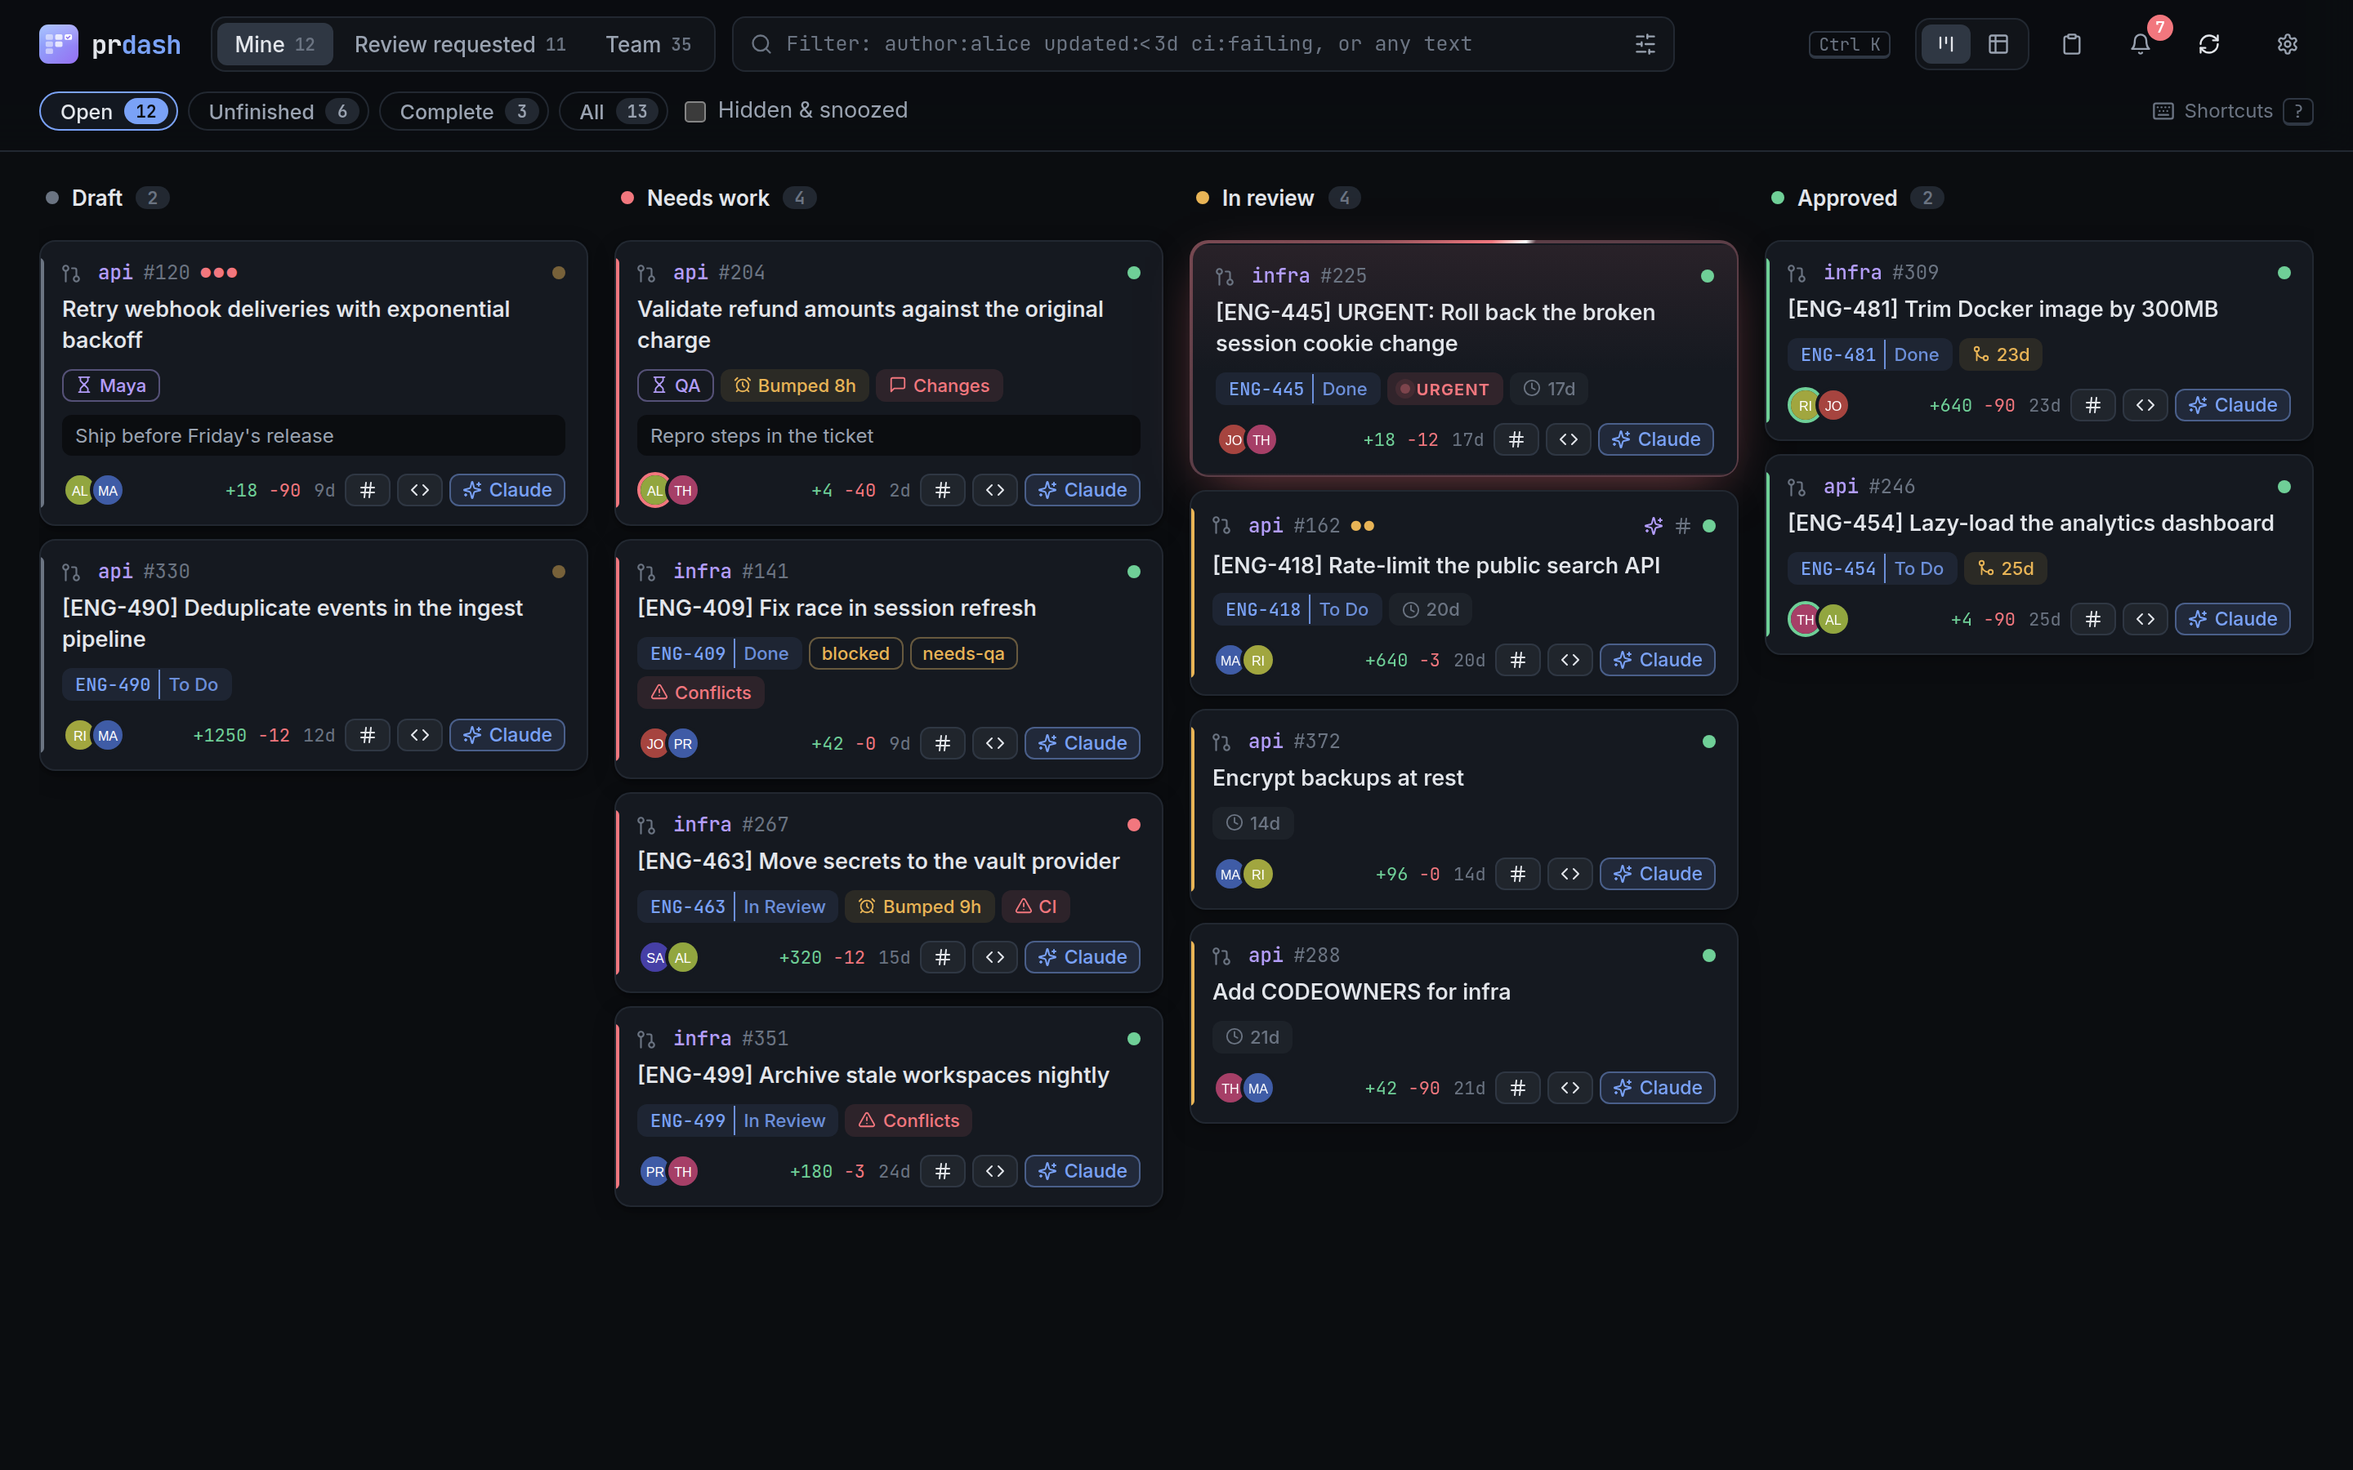
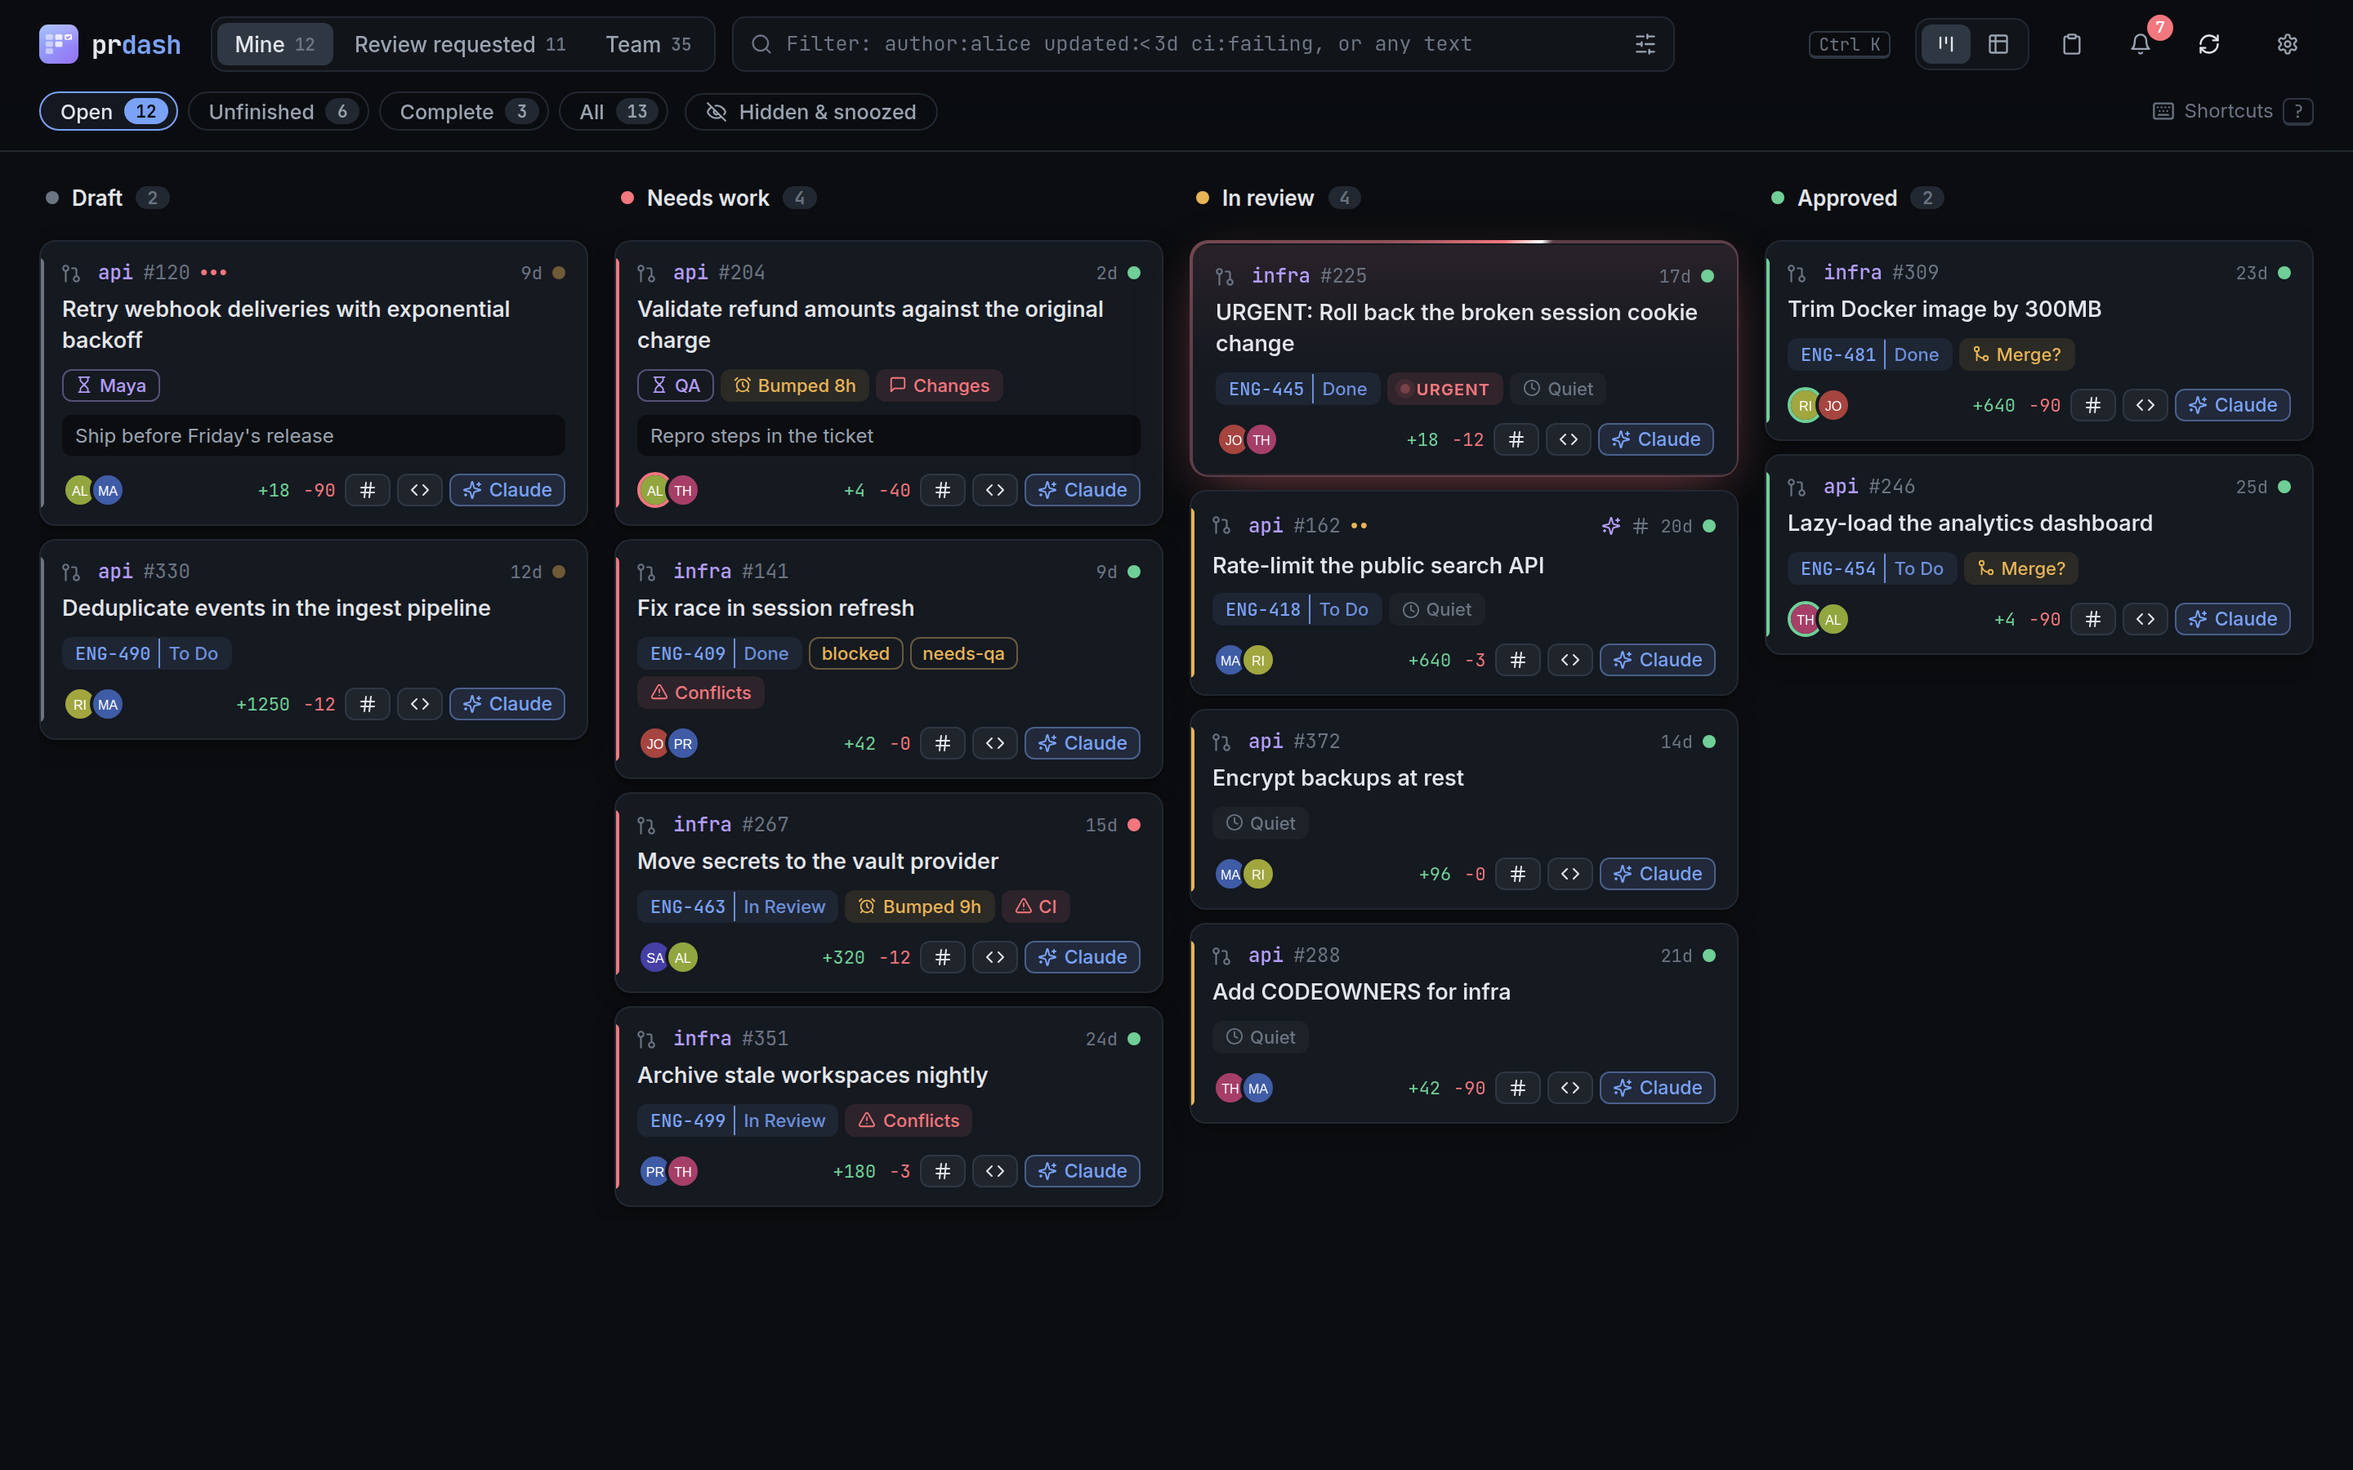
Polish from a hands-on review in Chrome
- Card titles drop the ticket prefix their Jira chip already shows.
- Age sits in each card's top row and stays visible; only the diff size
  swaps for actions on hover. Nudge chips say Quiet / Merge? instead of
  repeating the age.
- The corner icon becomes a checkbox on hover, so selection is discoverable.
- Hidden & snoozed is a chip toggle that matches its row.
- Empty columns hide while a filter is active.
- PR panel action buttons are compact enough to stay on one row.
- Priority dots have a tooltip; chips without an icon don't leave a gap.
- Tidy: the review op is a plain function; static files no longer include .html.

diff --git a/prdash/web/js/render.js b/prdash/web/js/render.js
@@ -5,6 +5,10 @@ const esc = s => String(s ?? "").replace(/[&<>"']/g, c => ({ "&": "&amp;", "<": 
 const SPRITE = document.documentElement.dataset.icons || "/static/icons.svg"; // versioned by the server
 const icon = (name, cls = "") => `<svg class="ic ${cls}"><use href="${SPRITE}#${name}"/></svg>`;
 const STATE_WORD = s => s.toLowerCase().replace("_", " ");
+const PRIO = ["", "low", "medium", "high"];
+// "[ABC-1] Fix x" / "ABC-1: Fix x" -> "Fix x" when the key is already shown as a chip
+const TICKET_PREFIX = /^\s*(\[[A-Z][A-Z0-9]+-\d+\]|[A-Z][A-Z0-9]+-\d+:)\s*/;
+export const shortTitle = p => (p.jira.length ? p.title.replace(TICKET_PREFIX, "") : p.title);
 
 function jiraChip(a, k) {
   const j = a.jira(k), href = a.jiraHref(k);
@@ -14,14 +18,13 @@ function jiraChip(a, k) {
     : `<span class="chip jira">${inner}</span>`;
 }
 
-export function chips(a, p, { labels = false } = {}) {
+function chips(a, p) {
   const l = a.L(p);
   return [
     ...p.jira.map(k => jiraChip(a, k)),
     l.waiting ? `<span class="chip wait">${icon("hourglass")}<span>${esc(l.waiting)}</span></span>` : "",
     l.snooze ? `<span class="chip snz">${icon("clock")}<span>until ${esc(l.snooze)}</span></span>` : "",
     ...a.tags(p).map(t => `<span class="chip tag">${esc(t)}</span>`),
-    ...(labels ? p.labels.map(x => `<span class="chip">${esc(x)}</span>`) : []),
     ...a.flags(p).map(([short, tone, ic, long]) => `<span class="chip flag ${tone}" title="${esc(long)}">${ic ? icon(ic) : ""}<span>${esc(short)}</span></span>`),
   ].join("");
 }
@@ -29,7 +32,7 @@ export function chips(a, p, { labels = false } = {}) {
 const avatar = (a, login, cls = "", title = login) =>
   `<img class="av ${cls}" src="${esc(a.avatar(login))}" loading="lazy" alt="" title="${esc(title)}" onerror="this.style.visibility='hidden'">`;
 // Selection, focus, and the open PR are painted as classes by app.paint(), so moving around never re-renders.
-const PICK = `<button class="pick" data-act="pick" title="Select (x, shift-click for a range)">${icon("git-pull-request", "i-off")}${icon("square-check", "i-on")}</button>`;
+const PICK = `<button class="pick" data-act="pick" title="Select (x, shift-click for a range)">${icon("git-pull-request", "i-pr")}${icon("square", "i-off")}${icon("square-check", "i-on")}</button>`;
 
 export function card(a, p) {
   const l = a.L(p), r = a.review(p), prio = l.prio || 0;
@@ -40,21 +43,21 @@ export function card(a, p) {
   <div class="card-top">
     ${PICK}
     <span class="repo">${esc(p.repo)}</span><span class="num">#${p.number}</span>
-    ${prio ? `<span class="prio p${prio}">${"●".repeat(prio)}</span>` : ""}
+    ${prio ? `<span class="prio p${prio}" title="Priority: ${PRIO[prio]}">${"●".repeat(prio)}</span>` : ""}
     <span class="grow"></span>
     ${r.status === "running" ? icon("sparkles", "state spin") : r.status === "done" ? `<span title="Claude reviewed">${icon("sparkles", "state ok")}</span>` : ""}
     ${l.posted ? `<span title="Announced in Slack">${icon("hash", "state")}</span>` : ""}
+    <span class="t" title="${p.merged ? "Merged" : "Updated"} ${esc(new Date(p.merged || p.updated).toLocaleString())}">${a.ago(p.merged || p.updated)}</span>
     <i class="dot ${p.ci || ""}" title="CI: ${esc(p.ci || "no checks")}"></i>
   </div>
-  <div class="card-title">${esc(p.title)}</div>
+  <div class="card-title" title="${esc(p.title)}">${esc(shortTitle(p))}</div>
   ${chipHtml ? `<div class="chips">${chipHtml}</div>` : ""}
   ${l.note ? `<div class="card-note">${esc(l.note)}</div>` : ""}
   <div class="card-foot">
     ${p.author !== a.data?.me ? avatar(a, p.author) : ""}
     <span class="reviewers">${p.reviewers.map(x => avatar(a, x.who, `sm rv-${x.state}`, `${x.who}: ${STATE_WORD(x.state)}`)).join("")}</span>
     <span class="grow"></span>
-    <span class="meta"><span class="size"><span class="a">+${p.adds}</span> <span class="d">−${p.dels}</span></span>
-      <span class="t" title="Updated ${esc(new Date(p.updated).toLocaleString())}">${a.ago(p.merged || p.updated)}</span></span>
+    <span class="meta size" title="${p.files} files changed"><span class="a">+${p.adds}</span> <span class="d">−${p.dels}</span></span>
     <span class="hover-acts">
       ${p.merged ? "" : `<button class="mini" data-act="announce" title="Announce in Slack (p)">${icon("hash")}</button>`}
       <button class="mini" data-act="editor" title="Open in editor (e)">${icon("code")}</button>
@@ -73,7 +76,7 @@ export function row(a, p) {
   <td class="pickcol">${PICK}</td>
   <td><span class="prio p${prio}">${"●".repeat(prio) || "·"}</span></td>
   <td class="repo">${esc(p.repo)}</td>
-  <td class="ttl"><span class="num">#${p.number}</span><span>${esc(p.title)}</span>${chips(a, p)}</td>
+  <td class="ttl" title="${esc(p.title)}"><span class="num">#${p.number}</span><span>${esc(shortTitle(p))}</span>${chips(a, p)}</td>
   <td><span class="pill s-${p.status}"><i class="sdot"></i><span>${esc(a.statusLabel(p.status))}</span></span></td>
   <td><span class="author">${avatar(a, p.author, "sm")}<span>${esc(p.author)}</span></span></td>
   <td><i class="dot ${p.ci || ""}" title="${esc(p.ci || "no checks")}"></i></td>

diff --git a/prdash/web/style.css b/prdash/web/style.css
@@ -112,6 +112,8 @@ h1 em { font-style: normal; color: var(--accent); }
 .fchip.saved button { display: flex; align-items: center; gap: 6px; background: none; border: 0; color: inherit; font: inherit; padding: 3px 4px 3px 11px; cursor: pointer; }
 .fchip.saved .x { padding: 3px 8px 3px 4px; opacity: .5; }
 .fchip.saved .x:hover { opacity: 1; color: var(--red); }
+.fchip.toggle-chip .ic { width: 13px; height: 13px; }
+.fchip.toggle-chip { padding-right: 12px; }
 .divider { width: 1px; height: 18px; background: var(--line); margin: 0 4px; align-self: center; }
 .naming { padding: 3px 10px; border-radius: 20px; font-size: 12.5px; width: 200px; }
 .builder { display: grid; grid-template-columns: repeat(auto-fill, minmax(190px, 1fr)); gap: 10px 14px; padding: 4px 24px 16px; }
@@ -164,7 +166,9 @@ a.chip.jira:hover { text-decoration: none; background: color-mix(in srgb, var(--
 .pick { display: grid; place-items: center; width: 18px; height: 18px; margin: -2px 2px -2px -4px; border: 0; background: none; color: var(--dim); border-radius: 4px; cursor: pointer; padding: 0; }
 .pick:hover, .picked .pick { color: var(--accent); }
 .pick .ic { width: 13px; height: 13px; }
-.pick .i-on, .picked .pick .i-off { display: none; }
+/* the corner icon is the PR glyph until you hover (an empty checkbox) or select (checked) */
+.pick .i-off, .pick .i-on, .card:hover .pick .i-pr, .tbl tr:hover .pick .i-pr, .picked .pick .i-pr, .picked .pick .i-off { display: none; }
+.card:hover .pick .i-off, .tbl tr:hover .pick .i-off { display: inline; }
 .picked .pick .i-on { display: inline; }
 .empty { display: grid; place-items: center; gap: 4px; color: var(--dim); padding: 80px 20px; }
 .empty p { margin: 0; }
@@ -266,7 +270,8 @@ main { padding: 18px 24px 60px; }
 .d-head { display: flex; align-items: center; gap: 10px; }
 .d-head h3 { margin: 0; font-size: 16px; }
 .d-head a { display: inline-flex; align-items: center; gap: 4px; min-width: 0; overflow: hidden; text-overflow: ellipsis; }
-.quick { display: flex; gap: 8px; flex-wrap: wrap; margin-top: 16px; }
+.quick { display: flex; gap: 6px; flex-wrap: wrap; margin-top: 16px; }
+.drawer .acts .btn, .quick .btn:not(.primary) { padding: 5px 10px; font-size: 12.5px; }
 .kv { display: grid; grid-template-columns: 92px 1fr; gap: 9px 12px; margin: 0; font-size: 13px; align-items: center; }
 .kv dt { color: var(--dim); }
 .kv dd { margin: 0; min-width: 0; overflow-wrap: anywhere; }

diff --git a/prdash/web/js/app.js b/prdash/web/js/app.js
@@ -155,8 +155,8 @@ Alpine.data("prdash", () => ({
     });
   },
   get board() {
-    const list = this.list, { preset, scope, rev, more } = this;
-    return memo("board", [list, preset, scope, rev, more], () => {
+    const list = this.list, { preset, scope, rev, more, q } = this;
+    return memo("board", [list, preset, scope, rev, more, q], () => {
       const want = PRESETS[preset].statuses, groups = {};
       for (const p of list) (groups[p.status] ||= []).push(p);
       // urgent first, then your priority; stable, so the chosen sort holds within each
@@ -164,7 +164,7 @@ Alpine.data("prdash", () => ({
       return STATUSES.filter(s => (!want || want.includes(s.key)) && !(s.key === "merged" && scope === "review")).map(s => {
         const all = (groups[s.key] || []).sort(byPrio);
         return { ...s, total: all.length, prs: more[s.key] ? all : all.slice(0, COL_LIMIT) };
-      });
+      }).filter((c, _, cols) => !this.q.trim() || c.total || cols.every(x => !x.total)); // filtering: hide empty columns
     });
   },
   get order() { return this.layout === "board" ? memo("order", [this.board], () => this.board.flatMap(c => c.prs)) : this.list; }, // j/k order
@@ -244,8 +244,8 @@ Alpine.data("prdash", () => ({
     if (p.mergeable === "CONFLICTING") f.push(["Conflicts", "red", "triangle-alert", `Merge conflicts with ${p.base}`]);
     if (p.author === this.data?.me && p.status === "in_review" && !this.L(p).posted && this.days(p.created) < 3)
       f.push(["Post", "amber", "hash", "Not announced in Slack yet"]);
-    if (p.status === "approved" && this.days(p.updated) > 1) f.push([idle, "amber", "git-merge", `Approved but idle ${idle}: ping to merge`]);
-    if (p.status === "in_review" && this.days(p.updated) > (this.cfg.stale_days || 5)) f.push([idle, "muted", "clock", `No activity for ${idle}: nudge reviewers`]);
+    if (p.status === "approved" && this.days(p.updated) > 1) f.push(["Merge?", "amber", "git-merge", `Approved but idle ${idle}: ping to merge`]);
+    if (p.status === "in_review" && this.days(p.updated) > (this.cfg.stale_days || 5)) f.push(["Quiet", "muted", "clock", `No activity for ${idle}: nudge reviewers`]);
     return f;
   },
   slackText(p) {

diff --git a/prdash/web/index.html b/prdash/web/index.html
@@ -63,7 +63,8 @@
       <input class="naming" x-ref="naming" x-show="naming !== null" x-model="naming" placeholder="Filter name, Enter to save"
         @keydown.enter="saveFilter(naming)" @keydown.escape.stop="naming = null" @blur="naming = null">
     </nav>
-    <label class="toggle"><input type="checkbox" x-model="showHidden"><span>Hidden &amp; snoozed</span></label>
+    <button class="fchip toggle-chip" :class="{ on: showHidden }" @click="showHidden = !showHidden" title="Show PRs you hid or snoozed">
+      <svg class="ic"><use href="/static/icons.svg#eye-off"/></svg>Hidden &amp; snoozed</button>
     <span class="grow"></span>
     <span class="dim small" x-show="data && q" x-text="list.length + ' match'"></span>
     <button class="hint" @click="panel = 'help'"><svg class="ic"><use href="/static/icons.svg#keyboard"/></svg> Shortcuts <kbd>?</kbd></button>
@@ -167,7 +168,7 @@
           <a class="chip jira" :class="'jc-' + (jira(k)?.category || '')" :href="jiraHref(k)" target="_blank"><span x-text="k"></span><span class="jstat" x-show="jira(k)" x-text="jira(k)?.status + (jira(k)?.assignee ? ' · ' + jira(k).assignee : '')"></span></a>
         </template>
         <template x-for="l in pane.labels" :key="l"><span class="chip" x-text="l"></span></template>
-        <template x-for="f in flags(pane)" :key="f[0]"><span class="chip flag" :class="f[1]"><svg class="ic"><use :href="'/static/icons.svg#' + f[2]"/></svg><span x-text="f[3]"></span></span></template>
+        <template x-for="f in flags(pane)" :key="f[0]"><span class="chip flag" :class="f[1]"><svg class="ic" x-show="f[2]"><use :href="'/static/icons.svg#' + f[2]"/></svg><span x-text="f[3]"></span></span></template>
       </div>
 
       <div class="quick">

diff --git a/prdash/server.py b/prdash/server.py
@@ -9,7 +9,7 @@ from urllib.parse import parse_qs, urlsplit
 from . import config, db, github, integrations, local, standup, sync
 
 WEB = Path(__file__).resolve().parent / "web"
-TYPES = {".js": "text/javascript", ".css": "text/css", ".svg": "image/svg+xml", ".woff2": "font/woff2", ".html": "text/html"}
+TYPES = {".js": "text/javascript", ".css": "text/css", ".svg": "image/svg+xml", ".woff2": "font/woff2"}
 PORT = 8765
 DEMO = False
 
@@ -18,7 +18,7 @@ OPS = {
     **{op: (lambda op: lambda pr, body: github.act(op, pr["url"], body))(op) for op in github.ACTIONS},
     "rerun": lambda pr, body: github.rerun_failed(pr["url"]),
     "claude": lambda pr, body: local.claude(pr),
-    "review": lambda pr, body: (local.start_review(pr, _review_done), "Claude review started")[1],
+    "review": lambda pr, body: start_review(pr),
     "editor": lambda pr, body: local.editor(pr),
     "terminal": lambda pr, body: local.terminal(pr),
     "checkout": lambda pr, body: local.checkout(pr),
@@ -29,6 +29,11 @@ OPS = {
     "slack_find": lambda pr, body: "found it" if integrations.slack_find(pr) else "not posted yet",
 }
 CHANGES_GITHUB = set(github.ACTIONS) | {"rerun"}
+
+
+def start_review(pr):
+    local.start_review(pr, _review_done)
+    return "Claude review started"
 
 
 def _review_done(pr):
